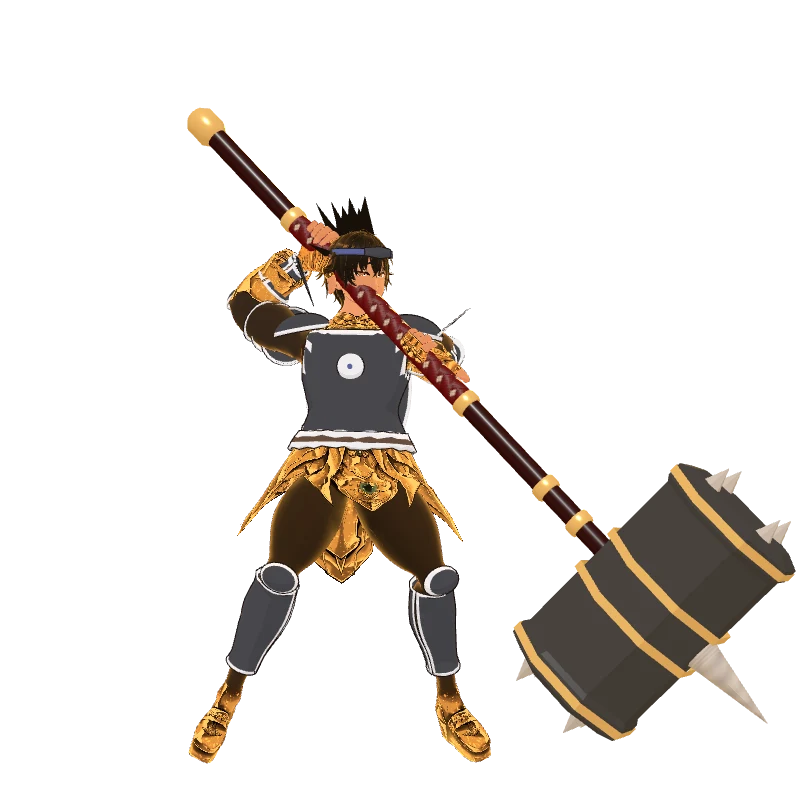
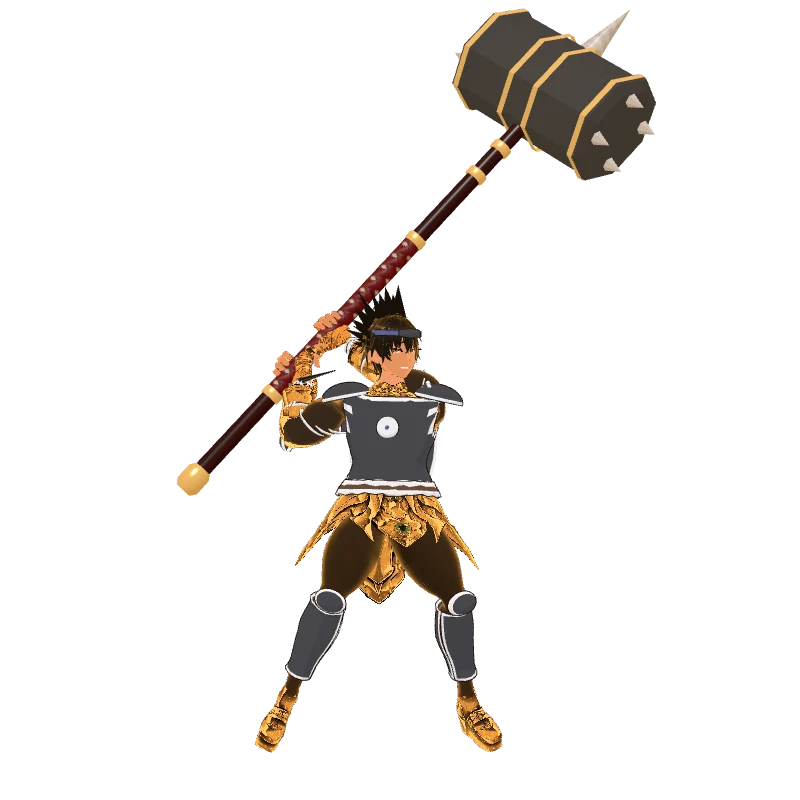
両手持ちの左手の向きと、ガンドウの決めポーズで柄が顔に重なるのを直す (v1.17.2)
- 両手持ちの左手を柄の軸まわりに裏返し、右手と同じく手の甲を外へ向けて柄を巻くように(以前は手のひらが外を向き、親指が突き出ていた)
- ガンドウの決めポーズを、大槌を頭上に振りかぶる構えに変え、柄が顔の横を通るように
- 攻撃中に武器が顔を通る割合を測ったところ、6人とも0〜1%
- tools/view.html: lg=0/1/2 で左手の向きの候補を見比べられる

Changed region(s): [[0.2188, 0.0, 1.0, 0.9688]]

diff --git a/src/poses.js b/src/poses.js
@@ -7,7 +7,7 @@ export const HERO_POSES = {
   reiga: { p: { az: 15, el: 5, bend: 110, wr: -140, azL: 80, elL: 5, bendL: 10, tw: 0, lean: 5, crouch: 0.6, stance: 0, head: 0, wide: 0.5 }, cam: { yaw: -8, pitch: -6 } },
   setsuna: { cand: 0, cam: { yaw: -30, pitch: -10 } },
   raika: { p: { az: 15, el: -15, bend: 85, wr: 80, azL: 25, elL: 105, bendL: 70, wrL: 135, tw: 20, lean: 20, crouch: 0.4, stance: 1.0, head: -20 }, cam: { yaw: -65, pitch: -8 } },
-  gandou: { p: { az: -35, el: 85, bend: 115, wr: 80, tw: -25, lean: 10, crouch: 0.5, stance: 0, wide: 0.45, head: 30 }, cam: { yaw: -20, pitch: -10 } },
+  gandou: { p: { az: -140, el: 25, bend: 125, wr: 40, tw: -25, lean: 10, crouch: 0.5, stance: 0, wide: 0.45, head: 30 }, cam: { yaw: -20, pitch: -10 } },
   fuuka: { p: { az: -35, el: 115, bend: 140, wr: 0, roll: 90, azL: -60, elL: 0, bendL: 60, wrL: -90, rollL: 90, tw: 10, lean: 0, crouch: 0.05, stance: 0.3, side: 6, head: -10 }, cam: { yaw: -10, pitch: -6 } },
   yomi: { cand: 1, cam: { yaw: 15, pitch: -10 } },
   zenova: { cand: 1, cam: { yaw: 15, pitch: -14 } },

diff --git a/src/vrmchar.js b/src/vrmchar.js
@@ -279,8 +279,11 @@ export class VrmBody {
     const g = _g.set(0, 1, 0).applyQuaternion(q).applyQuaternion(_rq).normalize();   // 武器の柄の向き
     const d = f.dot(g); if (Math.abs(d) > 0.96) return;
     f.addScaledVector(g, -d).normalize();                       // 指の向き(柄と直交)
-    const xw = left ? f : _x.copy(f).negate();                  // 手のローカルX(右手は指が -X)
+    // 手のローカルX(右手は指が -X)。両手持ちの左手は、柄の軸まわりに裏返して右手と同じ側から巻く(手の甲が同じ向き)
+    const flip = left && this.model.two && !this.model.dual ? (window.__lgFlip ?? 2) : 0;
+    const xw = left ? (flip === 1 ? _x.copy(f).negate() : f) : _x.copy(f).negate();
     const yw = _y.crossVectors(g, xw).normalize();
+    if (flip === 2) { yw.negate(); g.negate(); }
     _m.makeBasis(xw, yw, g);
     _hq.setFromRotationMatrix(_m);
     hand.parent.getWorldQuaternion(_pq);

diff --git a/sw.js b/sw.js
@@ -1,6 +1,6 @@
 // サービスワーカー: 全ファイルをキャッシュしてオフラインでも遊べるようにする
 // ※ ゲームを更新したら CACHE の番号を上げてください(古いキャッシュが破棄されます)
-const CACHE = 'seiga-v1.17.1';
+const CACHE = 'seiga-v1.17.2';
 const FILES = [
   './', 'index.html', 'manifest.webmanifest', 'css/style.css', 'vendor/three.module.min.js',
   'icons/icon-192.png', 'icons/icon-512.png', 'icons/icon-maskable-512.png', 'icons/apple-touch-icon.png',

diff --git a/src/config.js b/src/config.js
@@ -4,7 +4,7 @@
 // 空のままでも、ゲーム内「設定」画面から個別にURLを入力できます。
 export const CLOUD_URL = 'https://script.google.com/macros/s/AKfycbwIXAdAaQbAvjuTPs3f40_3I8KxJB3mKbrFkAzfM-IuFDj_kmxqeDuisBGuqbjSZOJp1Q/exec';
 
-export const VERSION = '1.17.1';
+export const VERSION = '1.17.2';
 
 // VRoid のキャラ(VRM)。ファイルを vrm/ フォルダに入れ、武将ID: パス を書くと差し替わります
 // 武将ID: reiga / setsuna / raika / gandou / fuuka / yomi

diff --git a/tools/view.html b/tools/view.html
@@ -25,6 +25,7 @@ import { preloadWeapons } from '../src/weaponglb.js';
 import { HERO_POSES } from '../src/poses.js';
 
 const Q = new URLSearchParams(location.search);
+if (Q.has('lg')) window.__lgFlip = +Q.get('lg');   // 両手持ちの左手の向きの候補(確認用)
 const log = (s) => { document.getElementById('log').textContent += s + '\n'; };
 if (!GFX.uRim) GFX.uRim = { value: 0 };
 await preloadWeapons();
